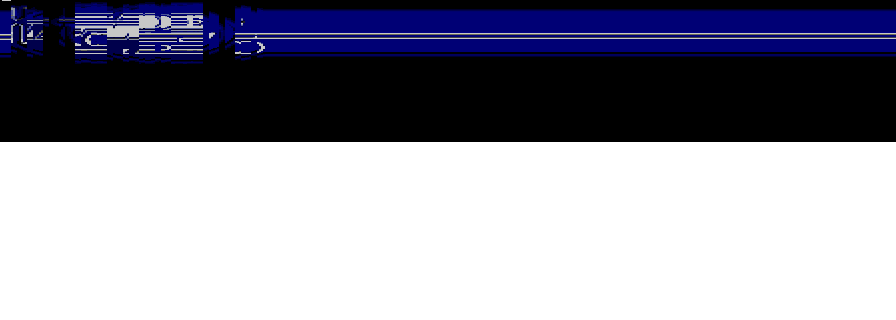
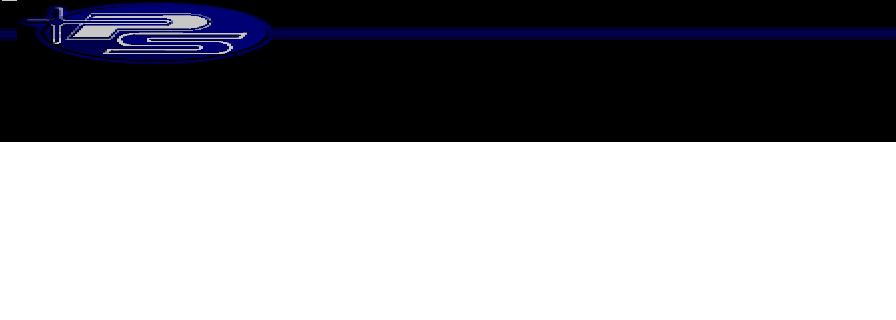
пачт генератора

Changed region(s): [[0.0, 0.0, 1.0, 0.2188]]

diff --git a/simulation/gen_from_ram.ts b/simulation/gen_from_ram.ts
@@ -114,7 +114,11 @@ for (let cnt_y = 0; cnt_y < scr_h; cnt_y++) {
                     //console.log("modes: " + tmp_modes.toString(16));
                     //debug && console.log("vstate: RdModes");
                     //debug && console.log("cnt_y[8:3]: " + (cnt_y >> 3).toString(16) + " CT5: " + (pixel_7m >> 2) + " CTH[5:3]: " +  ray_cntx.toString(16));
-                    //debug && print_addr(va);
+
+                    if (pixel_7m ==0) {
+                    console.log("rd: modes **********************");
+                    debug && print_addr(va);
+                    }
                     //debug && debug_modes(tmp_modes);
 
                     break;
@@ -147,8 +151,11 @@ for (let cnt_y = 0; cnt_y < scr_h; cnt_y++) {
                             ((mode1 & 7) << 3) |
                             posx;
 
-                        va ^= 1 << 4;
+                        //va ^= 1 << 4;
                     }
+
+                    console.log("rd: graph");
+                    debug && print_addr(va);
 
                     // mux
                     let tmp = ram[va >> 2];
@@ -190,7 +197,7 @@ for (let cnt_y = 0; cnt_y < scr_h; cnt_y++) {
 
             }
 
-            if (vfase == 6) {
+            if (vfase == 6 && pixel_7m == 7) {
                 mode0 = (tmp_modes >> 0) & 0xff;
                 mode1 = (tmp_modes >> 8) & 0xff;
                 mode2 = (tmp_modes >> 16) & 0xff;
@@ -234,6 +241,7 @@ for (let cnt_y = 0; cnt_y < scr_h; cnt_y++) {
 
 
     }
+    //break;
     if (cnt_y > 140) break;
 }
 
